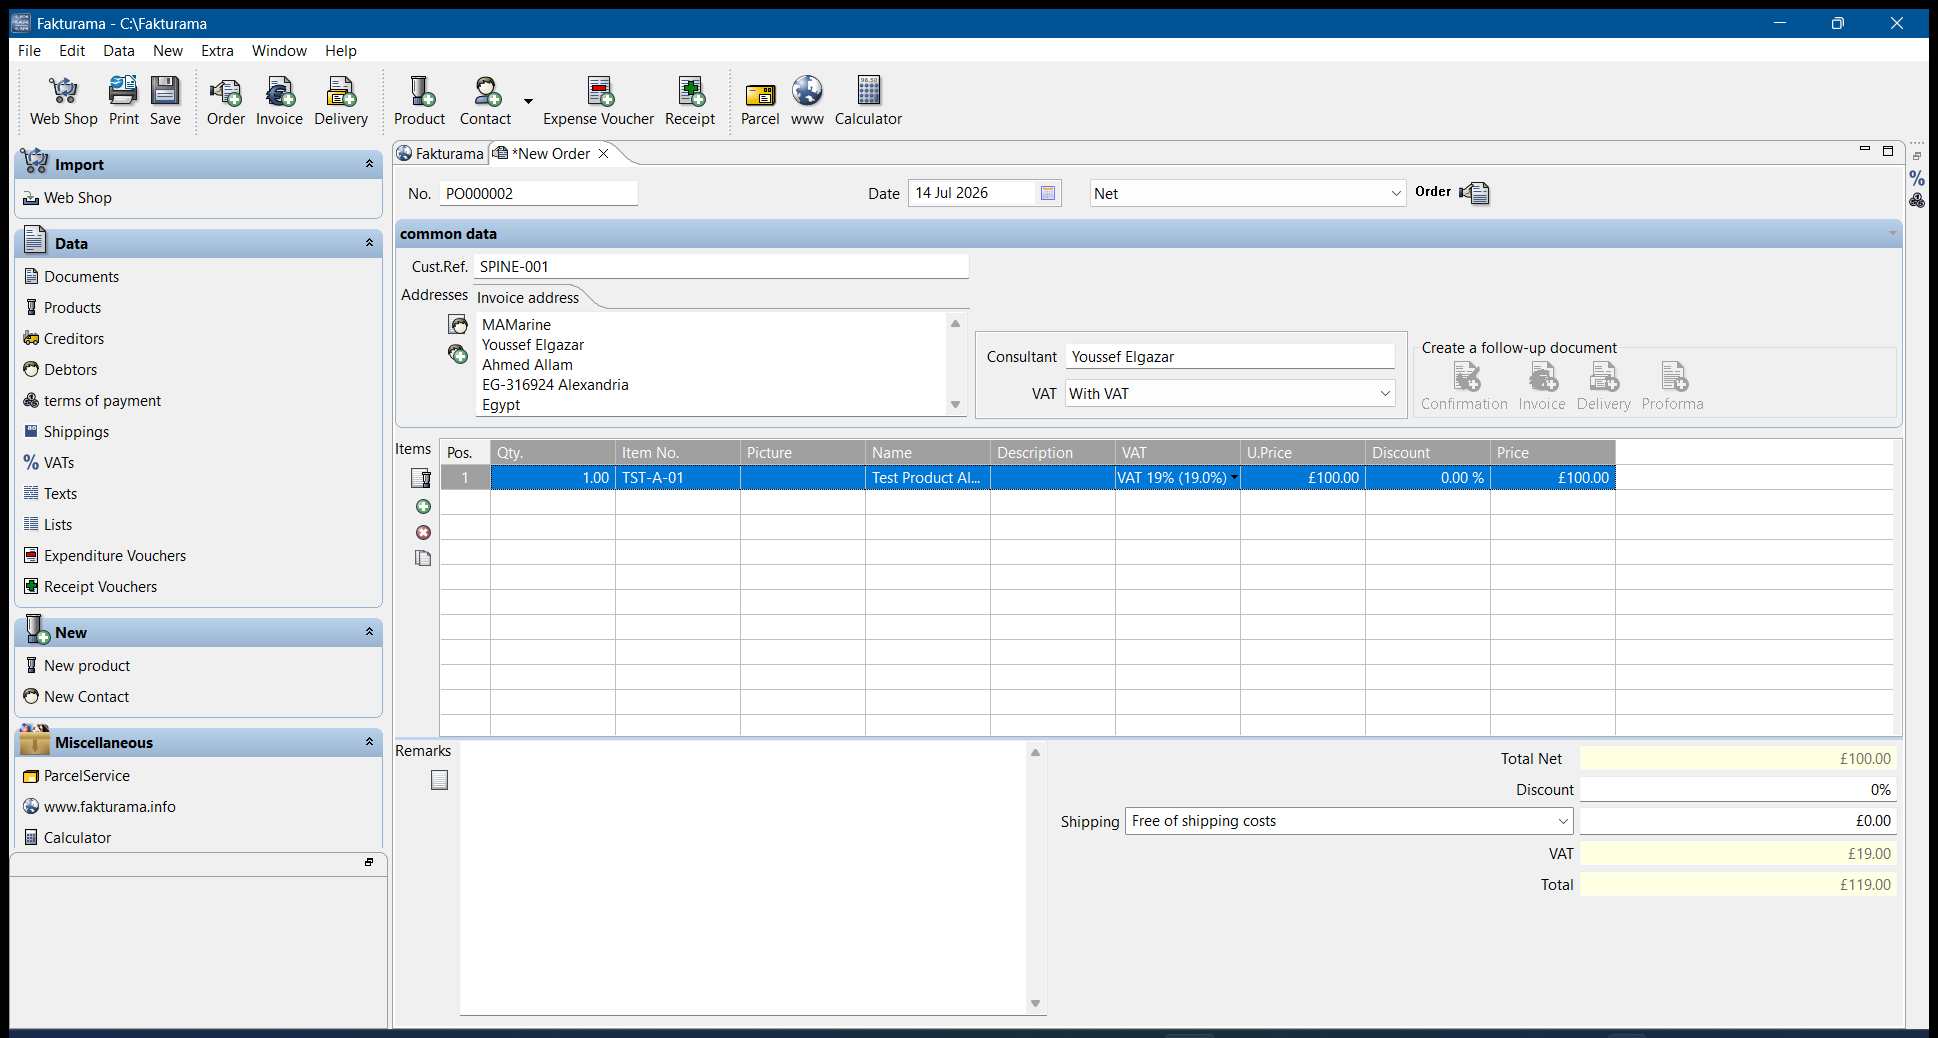
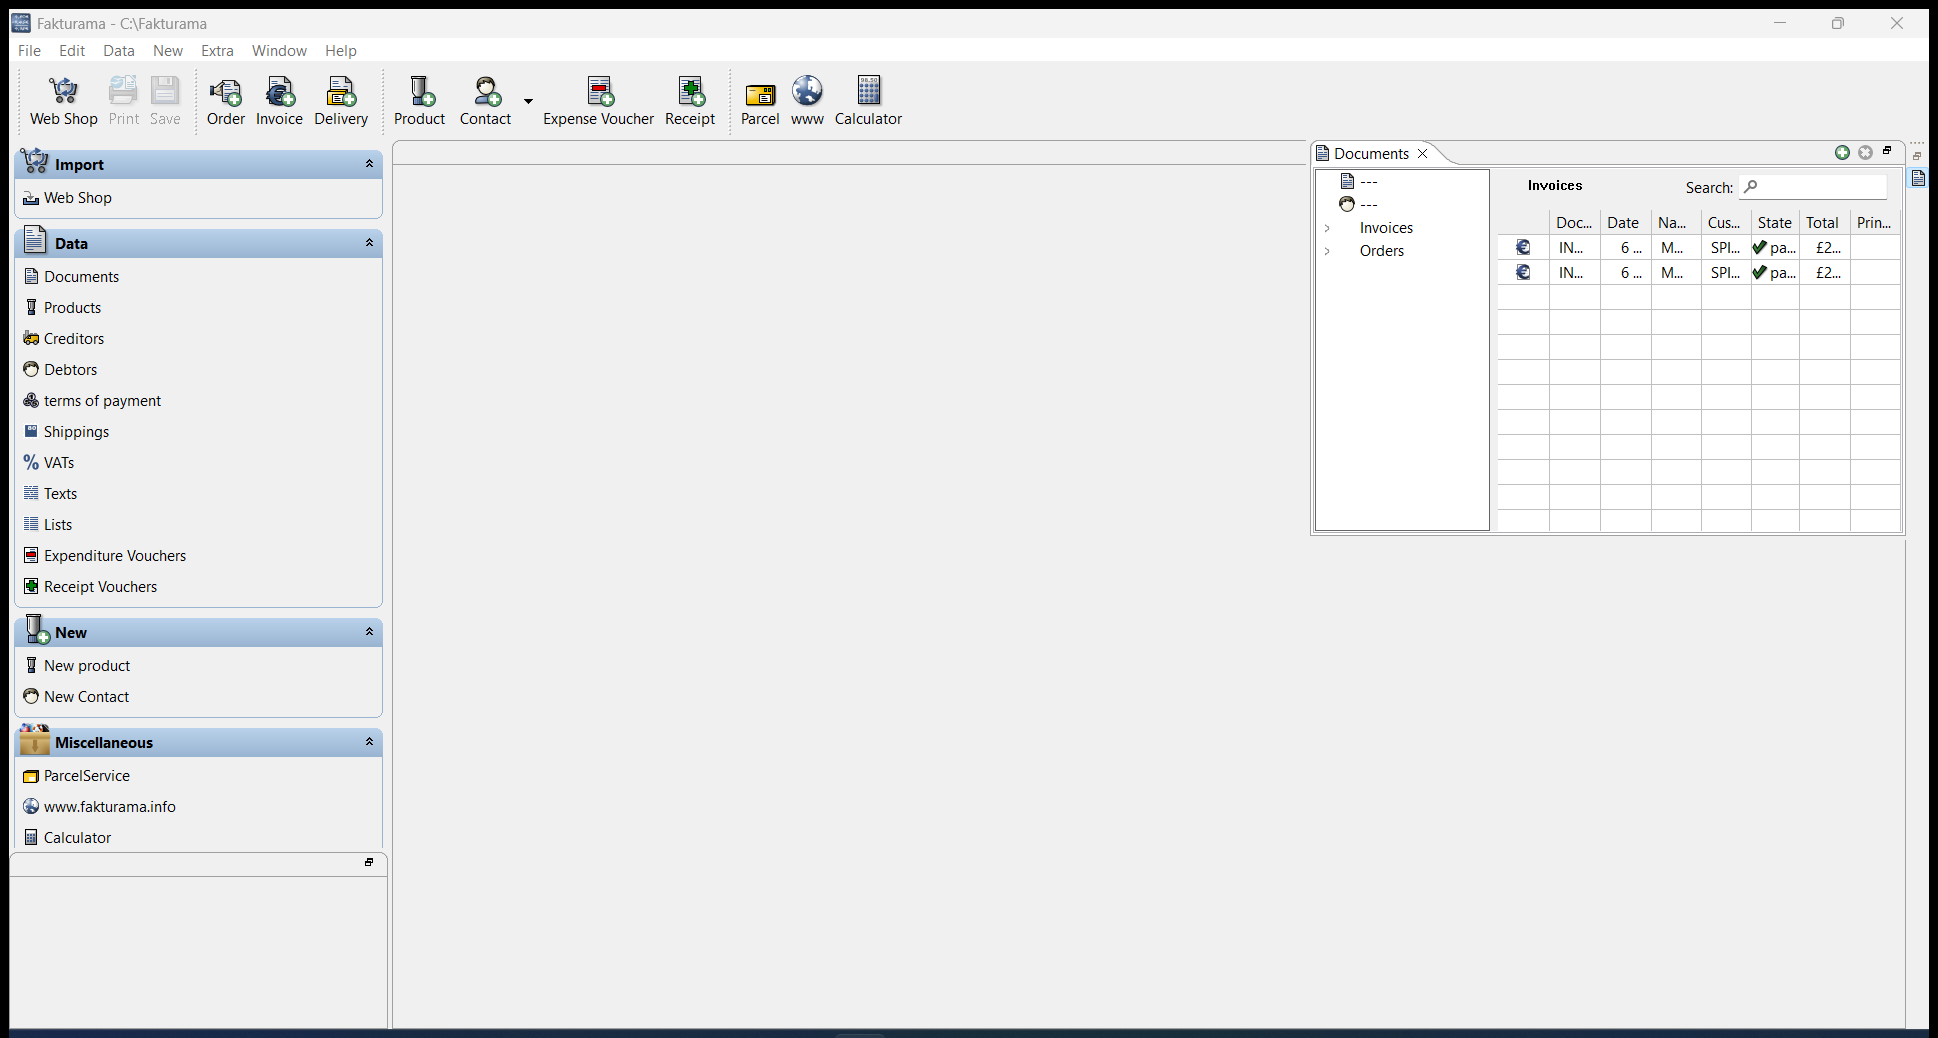
Completed a couple more end-to-end tests to identify and fix any quirks/oversights. Proceeding to testing on sample invoice.

diff --git a/src/screens/documents.py b/src/screens/documents.py
@@ -1,0 +1,41 @@
+"""Documents list and workspace/tab cleanup helpers."""
+from __future__ import annotations
+
+import time
+
+from ..ui.driver import App, click, ensure_foreground, send_keys_to
+
+
+def _menu_item(app: App, title: str):
+    # Menu text includes the shortcut, e.g. "Close All\tCtrl+Shift+W".
+    for item in app.wrapper.descendants(control_type="MenuItem"):
+        text = (item.window_text() or "").split("\t")[0].strip()
+        if text == title:
+            return item
+    return None
+
+
+def close_all_tabs(app: App) -> None:
+    """File > Close All. Call only when every document tab is saved."""
+    ensure_foreground(app.hwnd, app.wrapper.rectangle())
+    file_item = _menu_item(app, "File")
+    if file_item is None:
+        raise RuntimeError("File menu not found")
+    click(file_item)
+    time.sleep(0.8)
+    close_all = _menu_item(app, "Close All")
+    if close_all is None:
+        send_keys_to(app, "{ESC}")
+        raise RuntimeError("'Close All' menu item not found")
+    click(close_all)
+    time.sleep(1.5)
+
+
+def open_documents(app: App) -> None:
+    navs = [item for item in app.wrapper.descendants(control_type="Text")
+            if (item.window_text() or "").strip() == "Documents"]
+    navs.sort(key=lambda item: item.rectangle().left)
+    if not navs:
+        raise RuntimeError("Documents navigation item not found")
+    click(navs[0])
+    time.sleep(1.5)

diff --git a/tests/probes/close_view_tabs.py b/tests/probes/close_view_tabs.py
@@ -1,0 +1,38 @@
+from fk import *
+
+
+def menu_item(w, title):
+    for item in w.descendants(control_type="MenuItem"):
+        if (item.window_text() or "").split("\t")[0].strip() == title:
+            return item
+    return None
+
+
+def main():
+    start_log("close_view_tabs")
+    spec, w = get_app()
+    for name in ("VATs", "terms of payment"):
+        tabs = [t for t in w.descendants(control_type="TabItem")
+                if (t.window_text() or "").strip() == name]
+        if not tabs:
+            continue
+        x, y = center(tabs[0])
+        log("middle-click", name)
+        mouse.click(button="middle", coords=(x, y))
+        time.sleep(1.0)
+        if not [t for t in w.descendants(control_type="TabItem")
+                if (t.window_text() or "").strip() == name]:
+            log("closed", name)
+            continue
+        log("right-click", name)
+        mouse.right_click(coords=(x, y))
+        time.sleep(0.8)
+        log("menu:", [m.window_text() for m in w.descendants(control_type="MenuItem")])
+        close = menu_item(w, "Close")
+        if close:
+            click(close)
+            time.sleep(1.0)
+    log("tabs:", [t.window_text() for t in w.descendants(control_type="TabItem")])
+
+
+run(main)

diff --git a/tests/probes/close_tab_probe.py b/tests/probes/close_tab_probe.py
@@ -1,0 +1,38 @@
+from fk import *
+
+
+def near(items, tab_rect, pad=60):
+    out = []
+    for item in items:
+        r = item.rectangle()
+        if (tab_rect.top - 8 <= r.top <= tab_rect.bottom + 8
+                and tab_rect.left - pad <= r.left <= tab_rect.right + pad):
+            out.append((r, item))
+    return out
+
+
+def main():
+    start_log("close_tab_probe")
+    spec, w = get_app()
+    tabs = [t for t in w.descendants(control_type="TabItem")
+            if (t.window_text() or "").strip() == "INV000001"]
+    if not tabs:
+        log("no INV000001 tab; tabs:",
+            [t.window_text() for t in w.descendants(control_type="TabItem")])
+        return
+    tab = tabs[0]
+    r = tab.rectangle()
+    y = (r.top + r.bottom) // 2
+    mouse.move(coords=((r.left + r.right) // 2, y))
+    time.sleep(1.0)
+    log("tab rect:", r)
+    log("images near tab:")
+    for ir, item in near(w.descendants(control_type="Image"), r):
+        log("  image:", ir, repr(item.element_info.name))
+    log("buttons near tab:")
+    for br, item in near(w.descendants(control_type="Button"), r):
+        log("  button:", br, repr(item.window_text()))
+    snap(w, "close_tab_probe")
+
+
+run(main)

diff --git a/tests/probes/file_menu_probe.py b/tests/probes/file_menu_probe.py
@@ -1,0 +1,32 @@
+from fk import *
+
+
+def main():
+    start_log("file_menu_probe")
+    spec, w = get_app()
+    files = [m for m in w.descendants(control_type="MenuItem")
+             if (m.window_text() or "").strip() == "File"]
+    log("File items:", [m.rectangle() for m in files])
+    if not files:
+        return
+    click(files[0])
+    time.sleep(1.0)
+    log("main menuitems:",
+        [m.window_text() for m in w.descendants(control_type="MenuItem")])
+    log("Menu controls:")
+    for menu in w.descendants(control_type="Menu"):
+        items = [c.window_text() for c in menu.descendants(control_type="MenuItem")]
+        log("  menu:", repr(menu.window_text()), menu.rectangle(), items)
+    log("other windows:")
+    for win in Desktop(backend="uia").windows():
+        title = win.window_text() or ""
+        cls = win.element_info.class_name
+        if cls == "#32768" or (title and "Fakturama" not in title):
+            log("  window:", repr(title), cls)
+            for item in win.descendants(control_type="MenuItem"):
+                log("    item:", repr(item.window_text()))
+    keys(w, "{ESC}")
+    snap(w, "file_menu_probe")
+
+
+run(main)

diff --git a/tests/probes/close_extra_tabs.py b/tests/probes/close_extra_tabs.py
@@ -1,0 +1,40 @@
+from fk import *
+
+
+def menu_item(w, title):
+    for item in w.descendants(control_type="MenuItem"):
+        text = (item.window_text() or "").split("\t")[0].strip()
+        if text == title:
+            return item
+    return None
+
+
+def close_active(w):
+    click(menu_item(w, "File"))
+    time.sleep(0.8)
+    close = menu_item(w, "Close")
+    if close:
+        click(close)
+        time.sleep(1.0)
+
+
+def main():
+    start_log("close_extra_tabs")
+    spec, w = get_app()
+    for name in ("VATs", "terms of payment"):
+        tabs = [t for t in w.descendants(control_type="TabItem")
+                if (t.window_text() or "").strip() == name]
+        if tabs:
+            log("closing", name)
+            click(tabs[0])
+            time.sleep(0.6)
+            close_active(w)
+    docs = [t for t in w.descendants(control_type="TabItem")
+            if (t.window_text() or "").strip() == "Documents"]
+    if docs:
+        click(docs[0])
+        time.sleep(0.6)
+    log("tabs:", [t.window_text() for t in w.descendants(control_type="TabItem")])
+
+
+run(main)

diff --git a/tests/probes/close_all_probe.py b/tests/probes/close_all_probe.py
@@ -1,0 +1,28 @@
+from fk import *
+
+
+def main():
+    start_log("close_all_probe")
+    spec, w = get_app()
+    files = [m for m in w.descendants(control_type="MenuItem")
+             if (m.window_text() or "").strip() == "File"]
+    log("File items:", [m.rectangle() for m in files])
+    if files:
+        click(files[0])
+        time.sleep(1.0)
+    log("menu items:",
+        [m.window_text() for m in w.descendants(control_type="MenuItem")])
+    for menu in w.descendants(control_type="Menu"):
+        log("menu:", repr(menu.window_text()),
+            [c.window_text() for c in menu.descendants(control_type="MenuItem")])
+    close_all = [m for m in w.descendants(control_type="MenuItem")
+                 if (m.window_text() or "").strip() == "Close All"]
+    if close_all:
+        log("clicking Close All")
+        click(close_all[0])
+        time.sleep(1.5)
+    log("tabs:", [t.window_text() for t in w.descendants(control_type="TabItem")])
+    snap(w, "close_all_probe")
+
+
+run(main)

diff --git a/src/flows/spine.py b/src/flows/spine.py
@@ -12,6 +12,7 @@ from pathlib import Path
 
 from ..errors import ManualReviewRequired
 from ..extract.schema import ExtractedOrder
+from ..screens import documents
 from ..screens import invoice as invoice_screen
 from ..screens import order as order_screen
 from ..ui.driver import get_app, snap
@@ -96,6 +97,11 @@ def run_spine(fixture_path: str | Path) -> dict:
     check("Invoice VAT", totals.get("VAT"), expected.totals.vat)
     check("Invoice Total", totals.get("Total"), expected.totals.gross)
     snap(app, "spine_5_verified")
+
+    log("[8] Close tabs and open Documents")
+    documents.close_all_tabs(app)
+    documents.open_documents(app)
+    snap(app, "spine_6_documents")
 
     log("SPINE OK")
     return {"order": order_number, "invoice": invoice_number,

diff --git a/tests/probes/finish_cleanup.py b/tests/probes/finish_cleanup.py
@@ -1,0 +1,22 @@
+"""Close any open documents and leave the Documents tab showing the last order."""
+import sys
+import time
+from pathlib import Path
+
+sys.path.insert(0, str(Path(__file__).resolve().parents[2]))
+
+from src.screens import documents
+from src.ui.driver import get_app, send_keys_to
+
+
+def main():
+    app = get_app()
+    send_keys_to(app, "{ESC}")
+    time.sleep(0.3)
+    documents.close_all_tabs(app)
+    documents.open_documents(app)
+    print("tabs:", [t.window_text() for t in
+                    app.wrapper.descendants(control_type="TabItem")])
+
+
+main()

diff --git a/README.md b/README.md
@@ -10,6 +10,10 @@ label-relative geometry, or clipboard readback, never by hardcoded coordinates. 
 is extracted with **RapidOCR** and optionally an **LLM** vision pass, then validated by
 deterministic code before any UI interaction.
 
+The optional vision stage calls Anthropic's Messages API with the model configured in
+`ANTHROPIC_MODEL` (default **`claude-sonnet-4-5`**). The pipeline also runs fully
+offline with OCR only.
+
 ## Status
 
 | Part | State |
@@ -47,20 +51,25 @@ In progress:
 │   └── design.md            Part 1 design document
 ├── samples/
 │   ├── order_sample.png     supplied order image
-│   └── expected.json        ground-truth fixture
+│   ├── expected.json        ground-truth fixture
+│   └── spine_order.json     fixture for the existing-master-data spine
 ├── src/
 │   ├── config.py            .env loader (no extra dependency)
 │   ├── errors.py            ManualReviewRequired
-│   └── extract/
-│       ├── schema.py        typed model + price helpers
-│       ├── ocr.py           RapidOCR wrapper (text, score, boxes)
-│       ├── parser.py        deterministic label/table parser (offline)
-│       ├── llm.py           optional Anthropic vision stage
-│       ├── validate.py      formats + totals + OCR cross-check
-│       ├── extract.py       image -> validated order orchestrator
-│       └── __main__.py      CLI
+│   ├── extract/
+│   │   ├── schema.py        typed model + price helpers
+│   │   ├── ocr.py           RapidOCR wrapper (text, score, boxes)
+│   │   ├── parser.py        deterministic label/table parser (offline)
+│   │   ├── llm.py           optional Anthropic vision stage
+│   │   ├── validate.py      formats + totals + OCR cross-check
+│   │   ├── extract.py       image -> validated order orchestrator
+│   │   └── __main__.py      CLI
+│   ├── ui/                  UIA driver, clipboard, grid geometry, selectors
+│   ├── screens/             order and invoice screens
+│   └── flows/spine.py       Order-first spine flow
 └── tests/
-    └── test_extract.py
+    ├── test_extract.py
+    └── probes/              exploratory UIA probes (kept for reference)
 ```
 
 ## Requirements
@@ -69,6 +78,7 @@ In progress:
 - Fakturama installed and running for the UI flow.
 - Python 3.12+ (developed on 3.14).
 - RapidOCR ships its own ONNX models; no separate Tesseract install is needed.
+- An Anthropic API key is only needed for the optional LLM stage; OCR works offline.
 
 ## Setup
 
@@ -76,8 +86,20 @@ In progress:
 python -m venv .venv
 .\.venv\Scripts\Activate.ps1
 pip install -r requirements.txt
-Copy-Item .env.example .env   # optional: fill in LLM settings
+Copy-Item .env.example .env
 ```
+
+Then edit `.env`:
+
+```dotenv
+ANTHROPIC_API_KEY=sk-ant-...
+ANTHROPIC_BASE_URL=https://api.anthropic.com
+ANTHROPIC_MODEL=claude-sonnet-4-5
+FAKTURAMA_USE_LLM=1
+```
+
+`ANTHROPIC_AUTH_TOKEN` can be used instead of `ANTHROPIC_API_KEY` if your gateway
+expects it. `FAKTURAMA_USE_LLM=0` (or leaving the key blank) keeps the run offline.
 
 ## Run the extraction
 
@@ -117,12 +139,14 @@ environment (blank values are ignored):
 | Variable | Purpose |
 |---|---|
 | `ANTHROPIC_API_KEY` / `ANTHROPIC_AUTH_TOKEN` | LLM credentials (optional) |
-| `ANTHROPIC_BASE_URL` | Messages API base URL |
-| `ANTHROPIC_MODEL` | vision-capable model name |
+| `ANTHROPIC_BASE_URL` | Messages API base URL (default `https://api.anthropic.com`) |
+| `ANTHROPIC_MODEL` | vision-capable model name (used: **`claude-sonnet-4-5`**) |
 | `FAKTURAMA_USE_LLM` | `1` to enable the LLM stage by default |
 
+The vision stage sends the image plus the OCR text to Anthropic's Messages API and
+asks for the typed JSON schema; the deterministic validator still runs on the result.
 The pipeline runs fully offline with OCR when no LLM is configured or the endpoint is
-unreachable; the validator still applies to both paths.
+unreachable.
 
 ## How it works
 
@@ -133,8 +157,10 @@ unreachable; the validator still applies to both paths.
 3. **Validate** (`validate.py`) recomputes `qty × unit net × (1 − discount)` per line,
    then net/VAT/gross, and refuses to continue on any mismatch or on a value that is
    absent from the raw OCR text.
-4. **Drive the UI** (planned) — one state machine with a verification gate after every
-   step and a single `ManualReviewRequired` stop condition.
+4. **Drive the UI** — `src/ui/` holds the UIA driver, clipboard readback, selector
+   dialogs and OCR-derived grid columns; `src/screens/` holds the Order and Invoice
+   editors; `src/flows/spine.py` runs the state machine with a verification gate after
+   every step and a single `ManualReviewRequired` stop condition.
 
 ## Notes and known quirks
 
